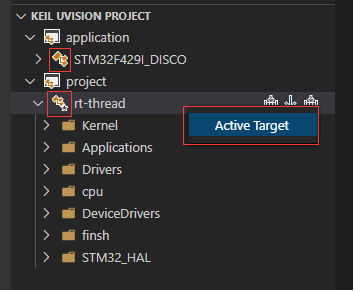
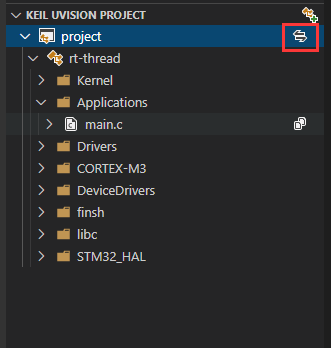
fixed bugs

Changed region(s): [[0.0, 0.0, 1.0, 1.0], [0.5136, 0.3093, 0.9366, 0.5258], [0.1208, 0.866, 0.423, 0.9278]]

diff --git a/src/extension.ts b/src/extension.ts
@@ -5,6 +5,7 @@ import * as event from 'events';
 import * as fs from 'fs';
 import * as node_path from 'path';
 import * as child_process from 'child_process';
+import * as os from 'os'
 
 import { File } from '../lib/node-utility/File';
 import { ResourceManager } from './ResourceManager';
@@ -208,6 +209,10 @@ interface KeilProjectInfo {
     toAbsolutePath(rePath: string): string;
 }
 
+interface uVisonInfo {
+    schemaVersion: string | undefined;
+}
+
 class KeilProject implements IView, KeilProjectInfo {
 
     prjID: string;
@@ -225,7 +230,11 @@ class KeilProject implements IView, KeilProjectInfo {
     uvprjFile: File;
     logger: Console;
 
+    // uVison info
+    uVsionFileInfo: uVisonInfo;
+
     private activeTarget: Target | undefined;
+    private prevUpdateTime: number | undefined;
 
     protected _event: event.EventEmitter;
     protected watcher: FileWatcher;
@@ -233,6 +242,7 @@ class KeilProject implements IView, KeilProjectInfo {
 
     constructor(_uvprjFile: File) {
         this._event = new event.EventEmitter();
+        this.uVsionFileInfo = <uVisonInfo>{};
         this.targetList = [];
         this.vscodeDir = new File(_uvprjFile.dir + File.sep + '.vscode');
         this.vscodeDir.CreateDir();
@@ -243,8 +253,14 @@ class KeilProject implements IView, KeilProjectInfo {
         this.prjID = getMD5(_uvprjFile.path);
         this.label = _uvprjFile.noSuffixName;
         this.tooltip = _uvprjFile.path;
-        this.logger.log('Log at : ' + Time.GetInstance().GetTimeStamp() + '\r\n');
-        this.watcher.OnChanged = () => { try { this.reload(); } catch (err) { vscode.window.showErrorMessage(`reload project failed !, msg: ${err.message}`); } };
+        this.logger.log('[info] Log at : ' + Time.GetInstance().GetTimeStamp() + '\r\n');
+        this.watcher.OnChanged = () => {
+            if (this.prevUpdateTime === undefined ||
+                this.prevUpdateTime + 2000 < Date.now()) {
+                this.prevUpdateTime = Date.now(); // reset update time
+                setTimeout(() => this.onReload(), 500)
+            }
+        };
         this.watcher.Watch();
     }
 
@@ -253,43 +269,53 @@ class KeilProject implements IView, KeilProjectInfo {
         this._event.on(event, listener);
     }
 
-    private async reload() {
-        this.targetList.forEach((target) => target.close());
-        this.targetList = [];
-        const err = await this.load();
-        if (err) throw err;
-        this._event.emit('dataChanged');
+    private async onReload() {
+        try {
+            this.targetList.forEach((target) => target.close());
+            this.targetList = [];
+            await this.load();
+            this.notifyUpdateView();
+        } catch (err) {
+            if (err.code && err.code === 'EBUSY') {
+                this.logger.log(`[Warn] uVision project file '${this.uvprjFile.name}' is locked !, delay 800 ms and retry !`);
+                setTimeout(() => this.onReload(), 500);
+            } else {
+                vscode.window.showErrorMessage(`reload project failed !, msg: ${err.message}`);
+            }
+        }
     }
 
-    async load(): Promise<Error | undefined> {
-        try {
-            const parser = new xml2js.Parser({ explicitArray: false });
-            const doc = await parser.parseStringPromise({ toString: () => { return this.uvprjFile.Read(); } });
-            const targets = doc['Project']['Targets']['Target'];
+    async load() {
 
-            if (isArray(targets)) {
-                for (const target of targets) {
-                    this.targetList.push(Target.getInstance(this, target));
-                }
-            } else {
-                this.targetList.push(Target.getInstance(this, targets));
-            }
+        const parser = new xml2js.Parser({ explicitArray: false });
+        const doc = await parser.parseStringPromise({ toString: () => { return this.uvprjFile.Read(); } });
+        const targets = doc['Project']['Targets']['Target'];
 
-            for (const target of this.targetList) {
-                await target.load();
-                target.on('dataChanged', () => this._event.emit('dataChanged'));
+        // init uVsion info
+        this.uVsionFileInfo.schemaVersion = doc['Project']['SchemaVersion'];
+
+        if (isArray(targets)) {
+            for (const target of targets) {
+                this.targetList.push(Target.getInstance(this, this.uVsionFileInfo, target));
             }
-            return undefined; // done
-        } catch (error) {
-            this.logger.log(error);
-            return error;
+        } else {
+            this.targetList.push(Target.getInstance(this, this.uVsionFileInfo, targets));
         }
+
+        for (const target of this.targetList) {
+            await target.load();
+            target.on('dataChanged', () => this.notifyUpdateView());
+        }
+    }
+
+    notifyUpdateView() {
+        this._event.emit('dataChanged');
     }
 
     close() {
         this.watcher.Close();
         this.targetList.forEach((target) => target.close());
-        this.logger.log('[Project Close]: ' + this.label);
+        this.logger.log('[info] project closed: ' + this.label);
     }
 
     toAbsolutePath(rePath: string): string {
@@ -304,7 +330,7 @@ class KeilProject implements IView, KeilProjectInfo {
         const index = this.targetList.findIndex((t) => { return t.targetName === tName; });
         if (index !== -1) {
             this.activeTarget = this.targetList[index];
-            this._event.emit('dataChanged'); // notify data changed
+            this.notifyUpdateView(); // notify data changed
         }
     }
 
@@ -345,6 +371,7 @@ abstract class Target implements IView {
     protected project: KeilProjectInfo;
     protected cppConfigName: string;
     protected targetDOM: any;
+    protected uvInfo: uVisonInfo;
     protected fGroups: FileGroup[];
     protected includes: Set<string>;
     protected defines: Set<string>;
@@ -352,10 +379,11 @@ abstract class Target implements IView {
     private uv4LogFile: File;
     private uv4LogLockFileWatcher: FileWatcher;
 
-    constructor(prjInfo: KeilProjectInfo, targetDOM: any) {
+    constructor(prjInfo: KeilProjectInfo, uvInfo: uVisonInfo, targetDOM: any) {
         this._event = new event.EventEmitter();
         this.project = prjInfo;
         this.targetDOM = targetDOM;
+        this.uvInfo = uvInfo;
         this.prjID = prjInfo.prjID;
         this.targetName = targetDOM['TargetName'];
         this.label = this.targetName;
@@ -390,11 +418,11 @@ abstract class Target implements IView {
         this._event.on(event, listener);
     }
 
-    static getInstance(prjInfo: KeilProjectInfo, targetDOM: any): Target {
+    static getInstance(prjInfo: KeilProjectInfo, uvInfo: uVisonInfo, targetDOM: any): Target {
         if (prjInfo.uvprjFile.suffix.toLowerCase() === '.uvproj') {
-            return new C51Target(prjInfo, targetDOM);
+            return new C51Target(prjInfo, uvInfo, targetDOM);
         } else {
-            return new ArmTarget(prjInfo, targetDOM);
+            return new ArmTarget(prjInfo, uvInfo, targetDOM);
         }
     }
 
@@ -447,6 +475,10 @@ abstract class Target implements IView {
     }
 
     async load(): Promise<void> {
+
+        // check target is valid
+        const err = this.checkProject(this.targetDOM);
+        if (err) throw err;
 
         const incListStr: string = this.getIncString(this.targetDOM);
         const defineListStr: string = this.getDefineString(this.targetDOM);
@@ -553,8 +585,6 @@ abstract class Target implements IView {
         this.updateCppProperties();
 
         this.updateSourceRefs();
-
-        this._event.emit('dataChanged');
     }
 
     private quoteString(str: string, quote: string = '"'): string {
@@ -650,6 +680,8 @@ abstract class Target implements IView {
         return this.fGroups;
     }
 
+    protected abstract checkProject(target: any): Error | undefined;
+
     protected abstract getIncString(target: any): string;
     protected abstract getDefineString(target: any): string;
     protected abstract getSysDefines(target: any): string[];
@@ -668,6 +700,13 @@ abstract class Target implements IView {
 //===============================================
 
 class C51Target extends Target {
+
+    protected checkProject(target: any): Error | undefined {
+        if (target['TargetOption']['Target51'] === undefined ||
+            target['TargetOption']['Target51']['C51'] === undefined) {
+            return new Error(`This uVision project is not a C51 project, but have a 'uvproj' suffix !`)
+        }
+    }
 
     protected parseRefLines(target: any, lines: string[]): string[] {
         return [];
@@ -919,9 +958,13 @@ class ArmTarget extends Target {
 
     private static armclangBuildinMacros: string[] | undefined;
 
-    constructor(prjInfo: KeilProjectInfo, targetDOM: any) {
-        super(prjInfo, targetDOM);
+    constructor(prjInfo: KeilProjectInfo, uvInfo: uVisonInfo, targetDOM: any) {
+        super(prjInfo, uvInfo, targetDOM);
         ArmTarget.initArmclangMacros();
+    }
+
+    protected checkProject(): Error | undefined {
+        return undefined;
     }
 
     protected getOutputFolder(target: any): string | undefined {
@@ -1125,8 +1168,7 @@ class ProjectExplorer implements vscode.TreeDataProvider<IView> {
     async openProject(path: string): Promise<KeilProject | undefined> {
         const nPrj = new KeilProject(new File(path));
         if (!this.prjList.has(nPrj.prjID)) {
-            const err = await nPrj.load();
-            if (err) throw err;
+            await nPrj.load();
             nPrj.on('dataChanged', () => this.updateView());
             this.prjList.set(nPrj.prjID, nPrj);
             this.updateView();

diff --git a/README.md b/README.md
@@ -24,7 +24,6 @@ vscode 上的 Keil 辅助工具，与 c/c++ 插件配合使用.
 - 自动感知 keil 项目文件的变化，及时更新项目视图
 - 通过调用 Keil 命令行接口实现 编译，重新编译，烧录 keil 项目
 - 自动生成 c_cpp_properties.json 文件，使 C/C++ 插件的语法分析能正常进行
-- 自动生成 Cortex-Debug 的调试配置 (C51项目除外)
 
 ***
 
@@ -52,7 +51,7 @@ vscode 上的 Keil 辅助工具，与 c/c++ 插件配合使用.
 4. 点击目标名称在多个 c/c++ 配置中切换
  ![cpp_config](./res/preview/cpp_config.png)
 
-5. 右键菜单点击 Active Target 将快捷键绑定到该 Keil Target 上
+5. 点击项目的切换按钮，可以在多个 Keil Target 之间切换
  ![active_target](./res/preview/active_target.png)
 
 6. 在编译完成后，可以点击源文件项的箭头图标展开其引用（仅支持 MDK 项目）
